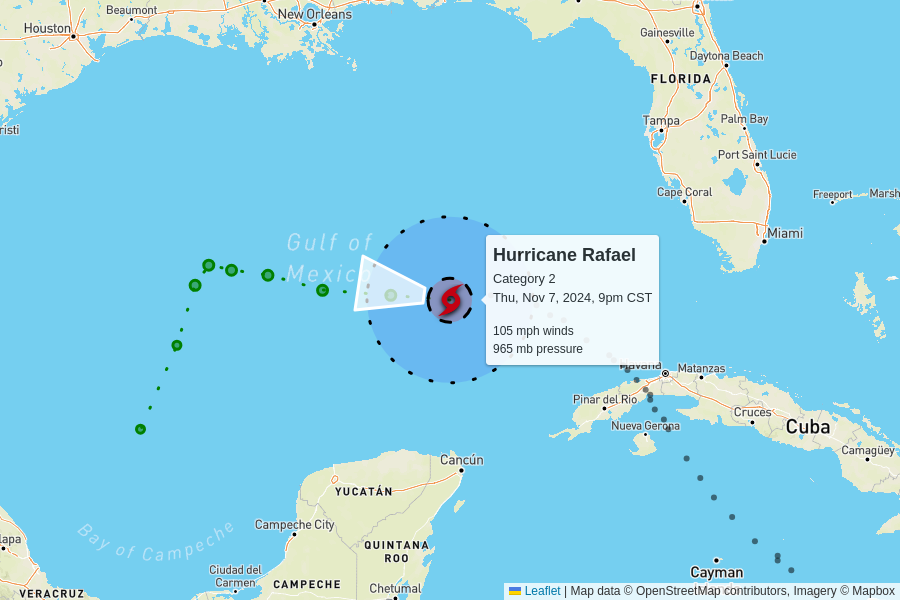
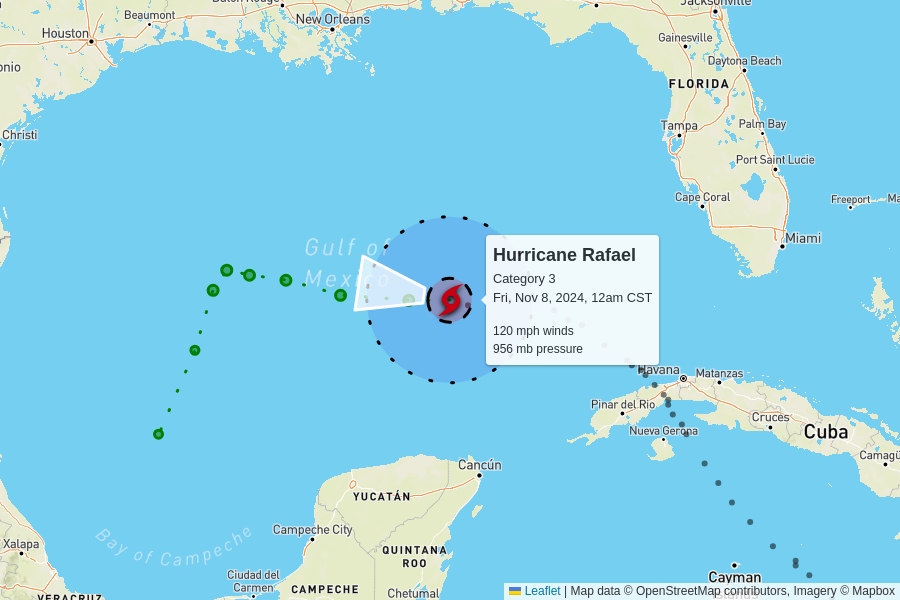
automatic update

diff --git a/docs/index.html b/docs/index.html
@@ -99,10 +99,10 @@
 
     <table>
       <tr>
-        <td colspan="6" class="storm category-2" >
+        <td colspan="6" class="storm category-3" >
           <h2>
-            Hurricane Rafael - Category 2
-            <p class="updated">last updated <span data-time>2024-11-08T03:00:00.000Z</span></p>
+            Hurricane Rafael - Category 3
+            <p class="updated">last updated <span data-time>2024-11-08T06:00:00.000Z</span></p>
           </h2>
         </td>
       </tr>
@@ -117,8 +117,8 @@
       </tr>
       <tr>
         <td class="spacer"></td>
-        <td>105 mph<br>0 mph since last update</td>
-        <td>965 mb<br>-3 mb since last update</td>
+        <td>120 mph<br>+15 mph since last update</td>
+        <td>956 mb<br>-9 mb since last update</td>
         <td>
           9 mph to the west
           <br/>
